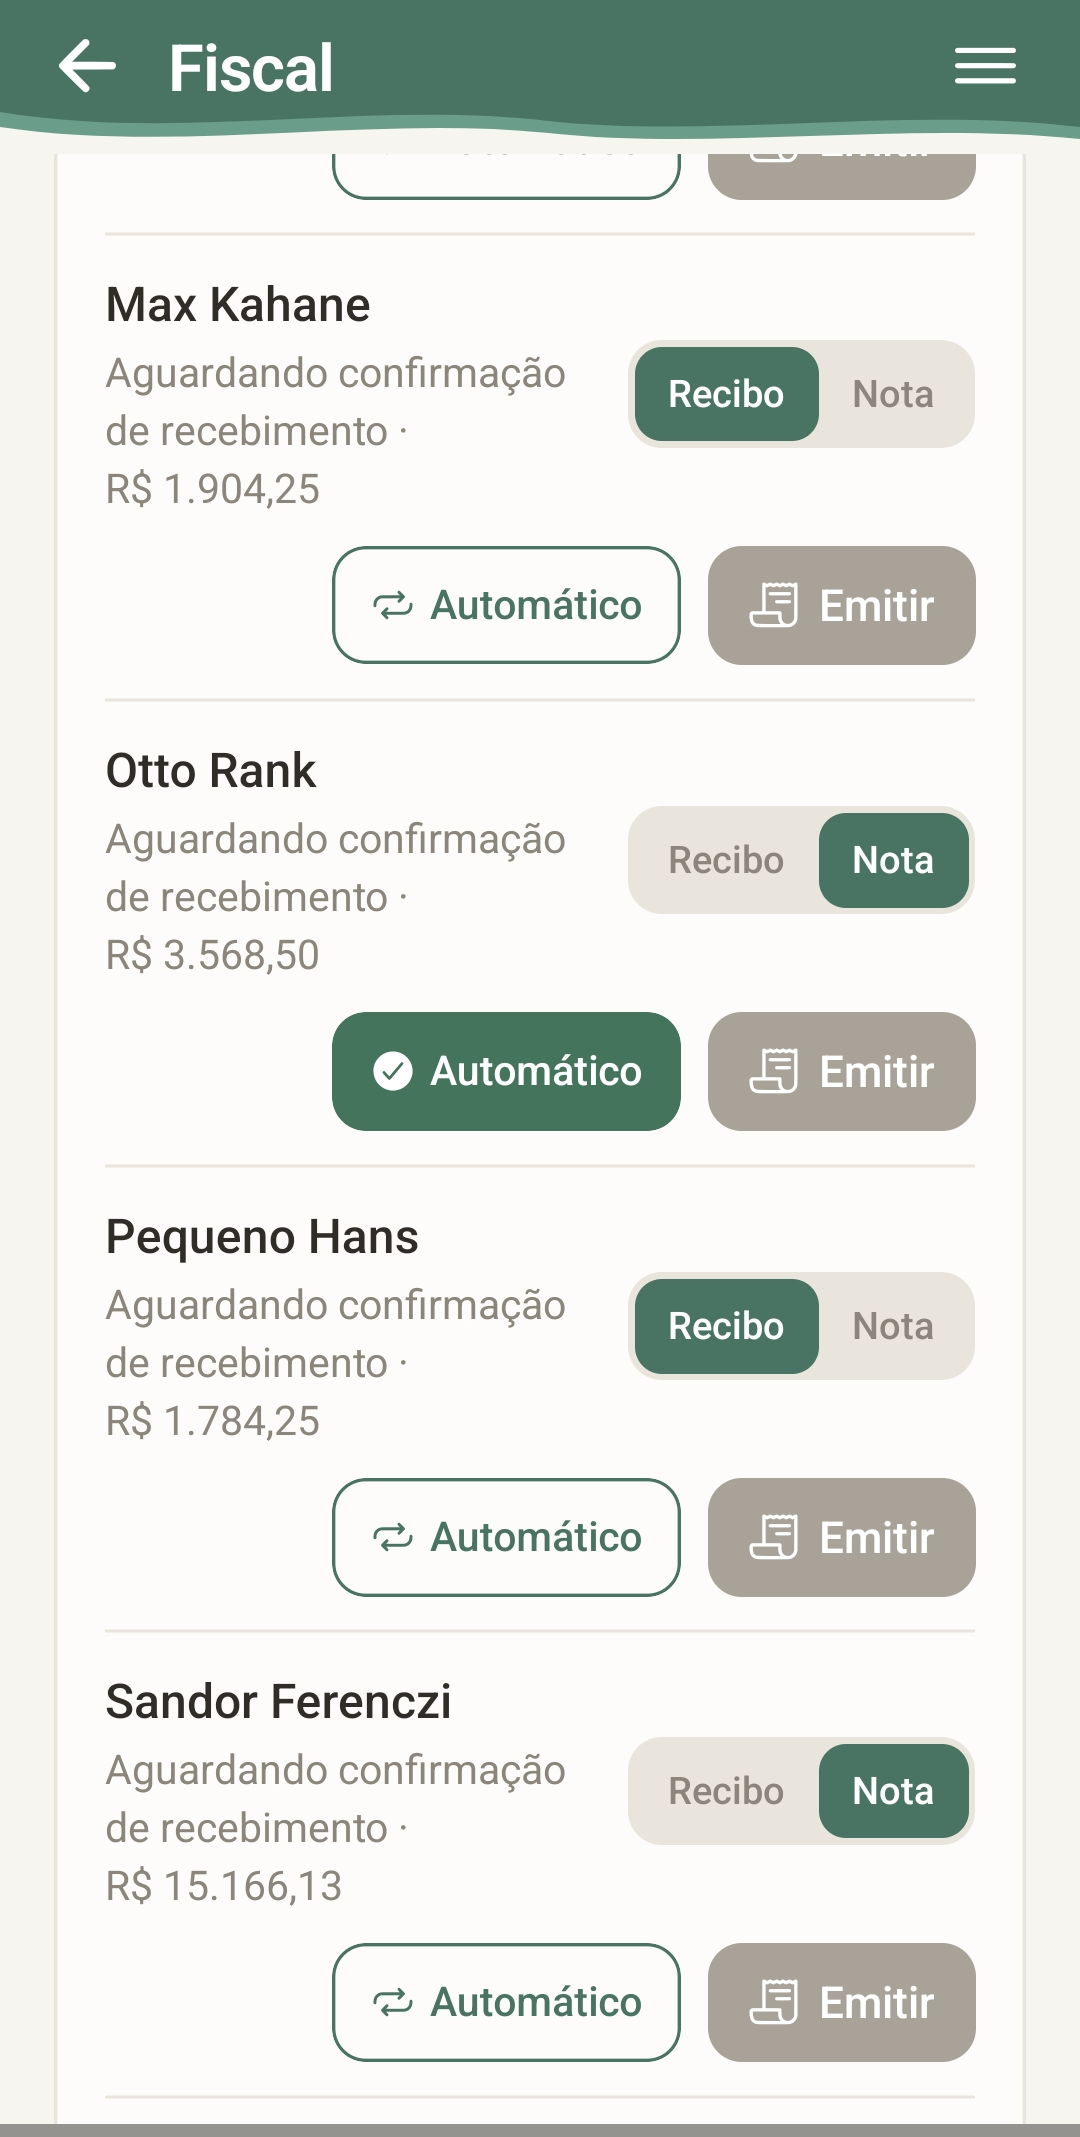
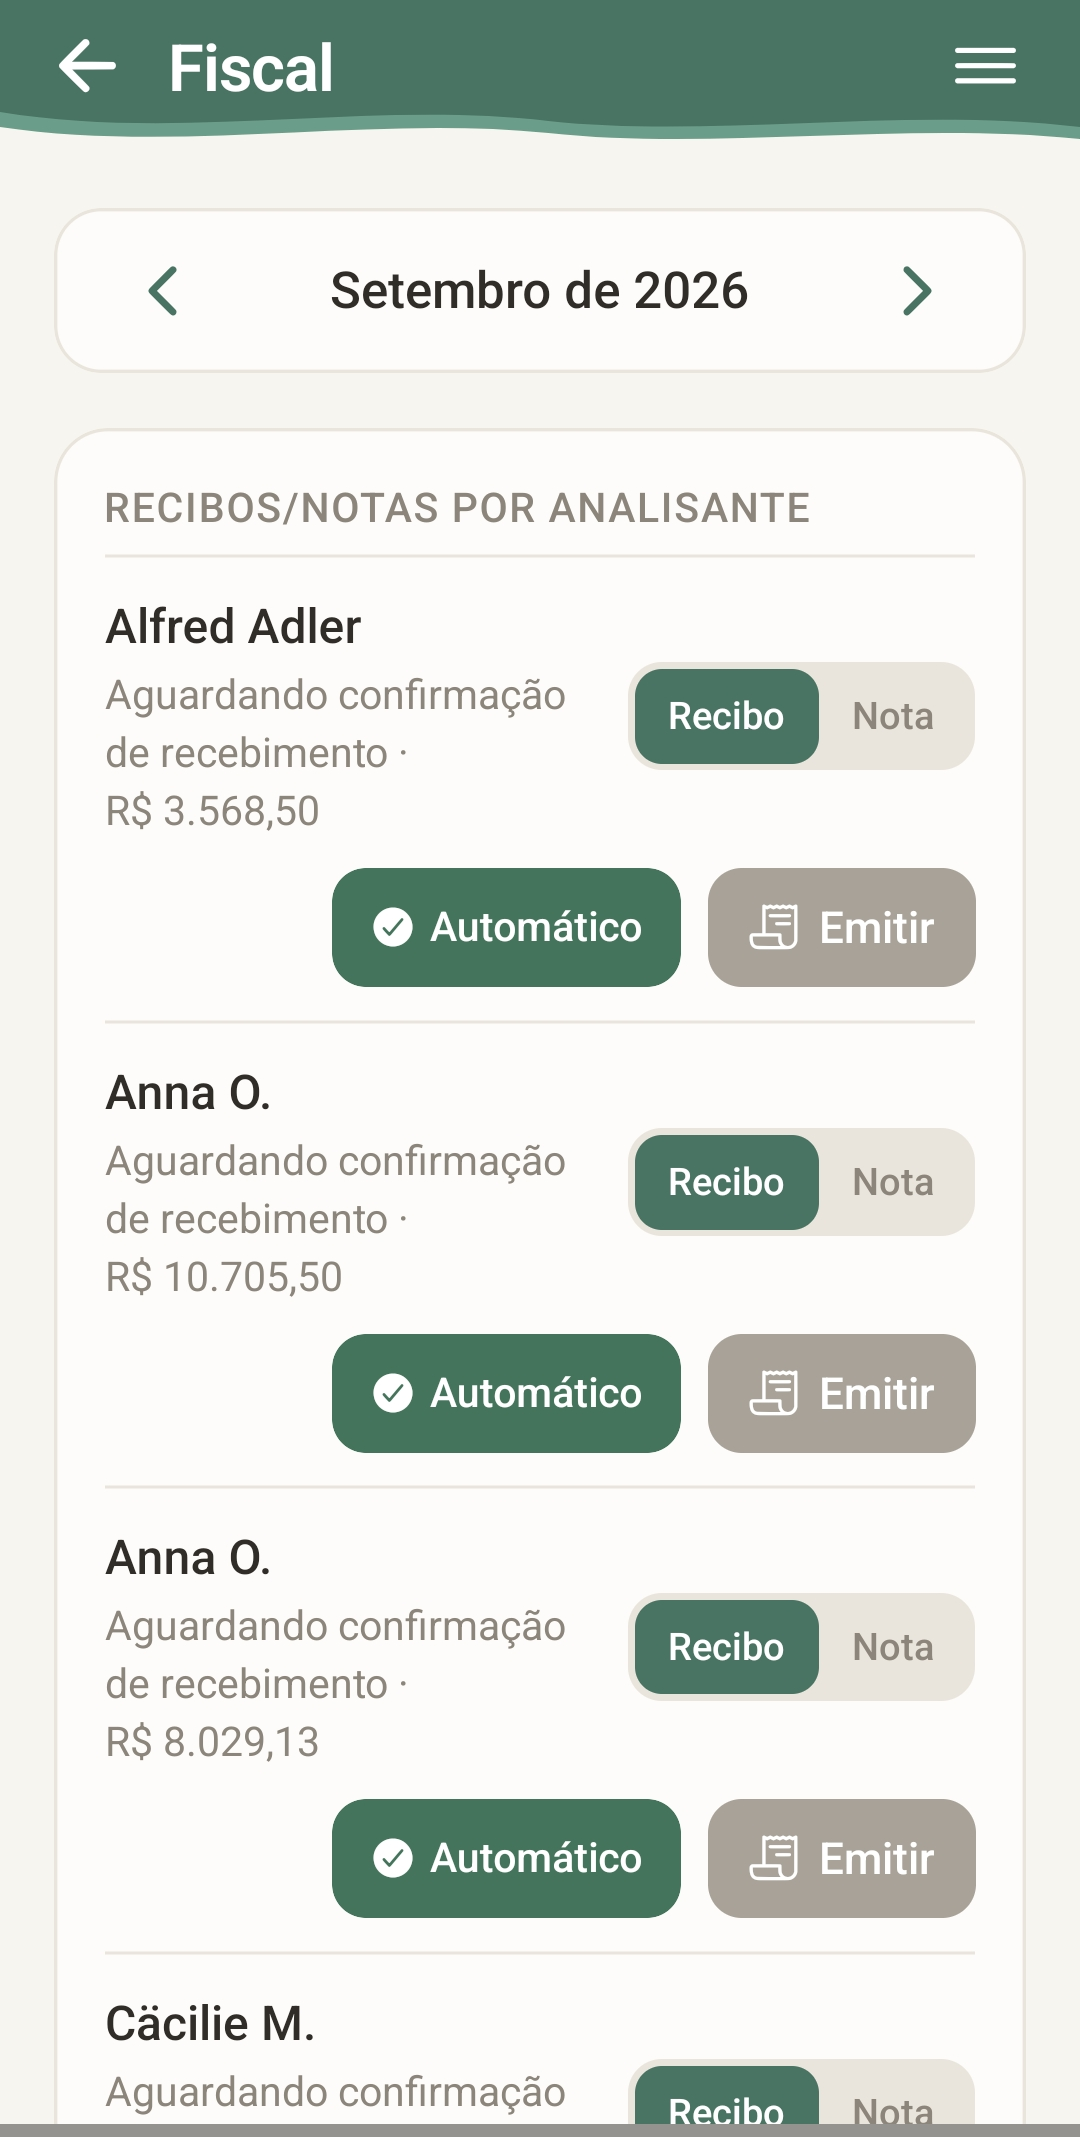
marketing: o Publicador — curadoria de sexta, publicacao diaria no Instagram e Facebook pela op-agente; 19 capturas da demonstracao; guia para ligar a Meta

diff --git a/marketing/publicador/SETUP-META.md b/marketing/publicador/SETUP-META.md
@@ -1,0 +1,51 @@
+# Ligar a publicação automática no Instagram e no Facebook
+
+O Publicador publica pela Graph API da Meta. Para isso a Dr.Sig precisa,
+uma vez só, de três coisas que só o dono pode criar. Depois disso o agente
+publica sozinho o que foi aprovado.
+
+## O que precisa existir
+
+1. **Instagram @oseusig como conta profissional** (Empresa ou Criador de
+   conteúdo), ligada à **Página do Facebook do Dr.Sig**. No app do
+   Instagram: Configurações → Conta → Mudar para conta profissional; depois
+   Configurações → Central de contas → adicionar a Página.
+2. **Um app na Meta for Developers** (https://developers.facebook.com/apps),
+   tipo "Empresa" (Business), com os produtos *Instagram Graph API* e
+   *Login do Facebook para empresas*. O app fica em modo de desenvolvimento:
+   isso basta para publicar nas contas que o próprio dono administra, sem
+   revisão da Meta.
+3. **Um token de Página de longa duração.** No Explorador da Graph API
+   (https://developers.facebook.com/tools/explorer): escolher o app, pedir as
+   permissões `pages_show_list`, `pages_read_engagement`,
+   `pages_manage_posts`, `instagram_basic`, `instagram_content_publish`,
+   `business_management`; gerar o token de usuária; trocar por longa
+   duração; e pedir `GET /me/accounts` — a resposta traz o `id` da Página e
+   o `access_token` **de Página**, que não expira.
+
+## O que o dono me passa
+
+Cole na conversa com o Claude, e eu guardo como segredos do Supabase
+(`META_PAGE_TOKEN`, `META_PAGE_ID`, `META_IG_USER_ID`):
+
+- o `access_token` de Página, vindo de `/me/accounts`;
+- o `id` da Página;
+- o id do Instagram: `GET /<id-da-página>?fields=instagram_business_account`.
+
+Em seguida eu rodo `verificar_meta` pela `op-agente` e, se voltar o nome da
+Página e o @oseusig, a publicação está ligada.
+
+## LinkedIn
+
+Publicar como Página do LinkedIn exige a *Community Management API*, que a
+LinkedIn libera por pedido, depois de a Página existir. Até lá, a peça de
+LinkedIn do dia chega ao dono por e-mail, pronta para colar.
+
+## Limites que valem lembrar
+
+- Instagram: até 25 publicações por dia pela API; imagens 4:5 a 1.91:1 (as
+  nossas são 4:5); carrossel de 2 a 10 imagens; Reels exigem vídeo MP4.
+- As imagens precisam estar numa URL pública — as artes vivem em
+  `https://drsig.com.br/marketing/…`, que é o próprio repositório do site.
+- O token de Página não expira, mas morre se a senha do Facebook mudar ou
+  se o dono sair da Página. `verificar_meta` avisa; aí é gerar outro.

diff --git a/marketing/capturas/README.md b/marketing/capturas/README.md
@@ -1,0 +1,39 @@
+# Capturas do app — conta de demonstração
+
+Todas tiradas na conta de demonstração (consultório do Freud), 1080×2137,
+sem barra de status. O Designer usa pelo nome, no campo `captura` de um
+quadro do tipo `captura`.
+
+| Nome | Tela |
+|---|---|
+| `inicio-clinica` | Início, aba Clínica (Nova Sessão, Novo Registro, Clientes, Relatórios) |
+| `inicio-financeiro` | Início, aba Financeiro (Entradas, Saídas, Cobrança, Fiscal) |
+| `agenda-semanal` | Agenda, visão semanal com os horários fixos |
+| `analisantes` | Lista de analisantes |
+| `supervisionandos` | Lista de supervisionandos |
+| `analisante-ficha` | Ficha do analisante: paralisação da análise, autorização de gravação |
+| `analisante-detalhes` | Ficha: modalidade, horário, preço da sessão, dia de pagamento, indicação |
+| `analisante-sessoes` | Histórico do analisante: sessão transcrita e sessões anotadas |
+| `registro-sessao` | Um registro de sessão aberto |
+| `registro-supervisao` | Um registro de supervisão aberto |
+| `novo-registro` | Formulário de novo registro (data, título, importar texto via imagem) |
+| `cobranca` | Cobrança: recebimentos previstos do mês, com WhatsApp e e-mail |
+| `entradas` | Entradas, visão mensal: previsto, recebido, por analisante |
+| `fiscal` | Fiscal: recibos/notas por analisante, automático e emitir |
+| `perfil` | Meu Perfil: capa, foto e "Sua atividade" |
+| `perfil-rubrica` | Meu Perfil: rubrica usada nos recibos e o plano |
+| `perfil-indicacao` | Meu Perfil: indique e ganhe desconto |
+| `perfil-contador` | Meu Perfil: créditos de IA e dados do contador |
+| `perfil-exportar` | Meu Perfil: preferências e "Exportar meus dados" |
+
+Todos os arquivos terminam em `-demonstracao.png`.
+
+## O que ainda falta (tirar na conta de demonstração)
+
+- `nova-sessao-tipo` — Nova Sessão: Presencial / Online
+- `nova-sessao-plataforma` — Nova Sessão: WhatsApp / Meet / Zoom / Telefone
+- `nova-sessao-autorizacao` — Nova Sessão: "Autorização necessária"
+- `relatorios` — Relatórios de um analisante (resumo das sessões, frequência, pagamento)
+- `perfil-notificacoes` — Meu Perfil: notificações (app / e-mail)
+- `saidas` — Saídas do mês
+- `agenda-diaria` — Agenda, visão diária

diff --git a/marketing/README.md b/marketing/README.md
@@ -31,15 +31,18 @@ mover a pasta.
 1. Dia 1: o Estrategista escreve o plano e manda os "pedidos ao dono".
 2. Toda terça: o Redator entrega as peças da semana em `pendente/`.
    Toda quarta: o Designer renderiza as artes de cada peça na própria pasta.
-3. Toda sexta, na conversa com o Claude, o dono vê as peças com as imagens
-   e diz "aprovo" ou "recuso: razão"; a pasta é movida para `aprovado/` ou
-   `recusado/` por quem recebeu a resposta. O dono nunca precisa abrir o
-   repositório.
-4. Publicação: hoje é manual (o dono cola no Instagram @oseusig, no
-   Facebook e no LinkedIn; artigos
-   entram no site por commit em `blog/`). Quando as APIs de publicação
-   estiverem ligadas, um agente publica o que está em `aprovado/` e move
-   para `publicado/`.
+3. Toda sexta: o Publicador monta a proposta da semana (`semana/AAAA-MM-DD.md`,
+   que peça em que dia, de segunda a domingo) e manda ao dono por e-mail,
+   com as imagens. O dono responde na conversa com o Claude: "aprovo a
+   semana", "aprovo menos X" ou "muda X para quinta". O Claude escreve
+   `publicar_em: AAAA-MM-DD` no cabeçalho de cada peça aprovada e move a
+   pasta para `aprovado/` (ou `recusado/` com a razão). O dono nunca precisa
+   abrir o repositório.
+4. Todo dia: o Publicador publica no Instagram e no Facebook o que está em
+   `aprovado/` com `publicar_em` igual a hoje, escreve o link no cabeçalho e
+   move a pasta para `publicado/`. Artigos entram no site por commit em
+   `blog/`. LinkedIn: até a API ser liberada, o texto do dia chega ao dono
+   por e-mail, pronto para colar. Como ligar a Meta: `publicador/SETUP-META.md`.
 5. Toda segunda: o Analista diz o que aconteceu.
 
 ## Regras fixas (também estão em `KIT-DA-MARCA.md`)
